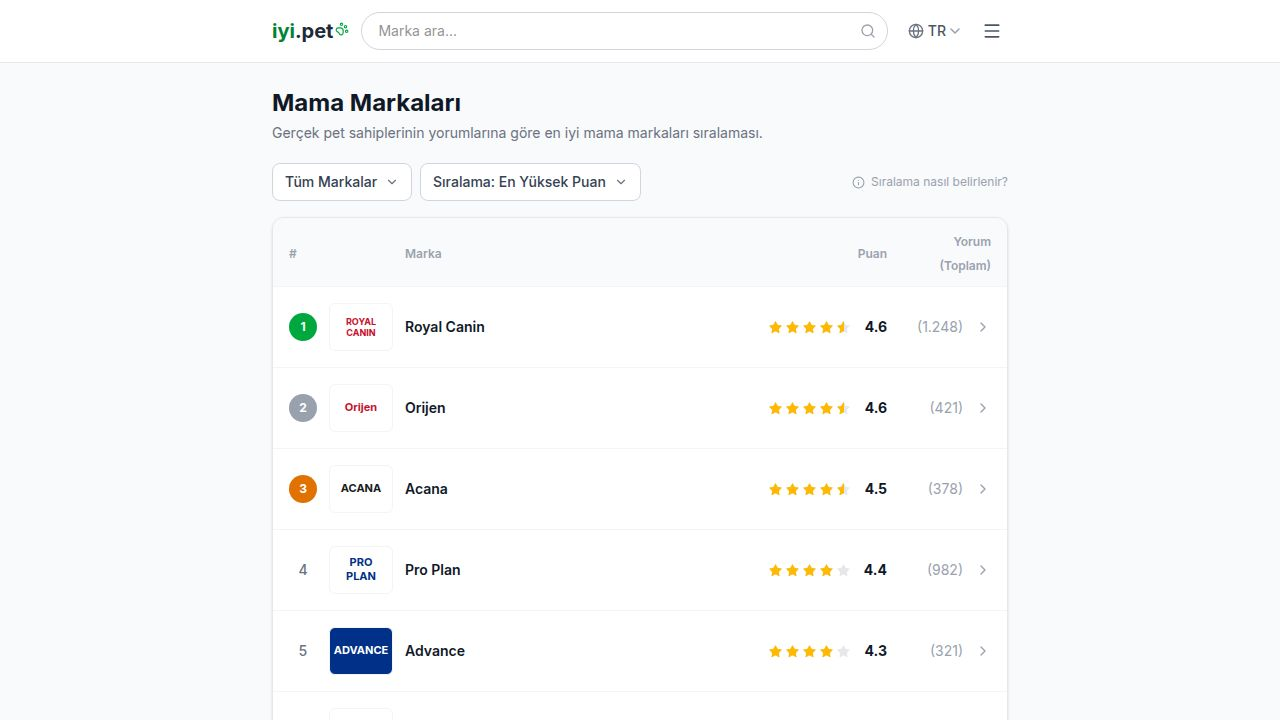
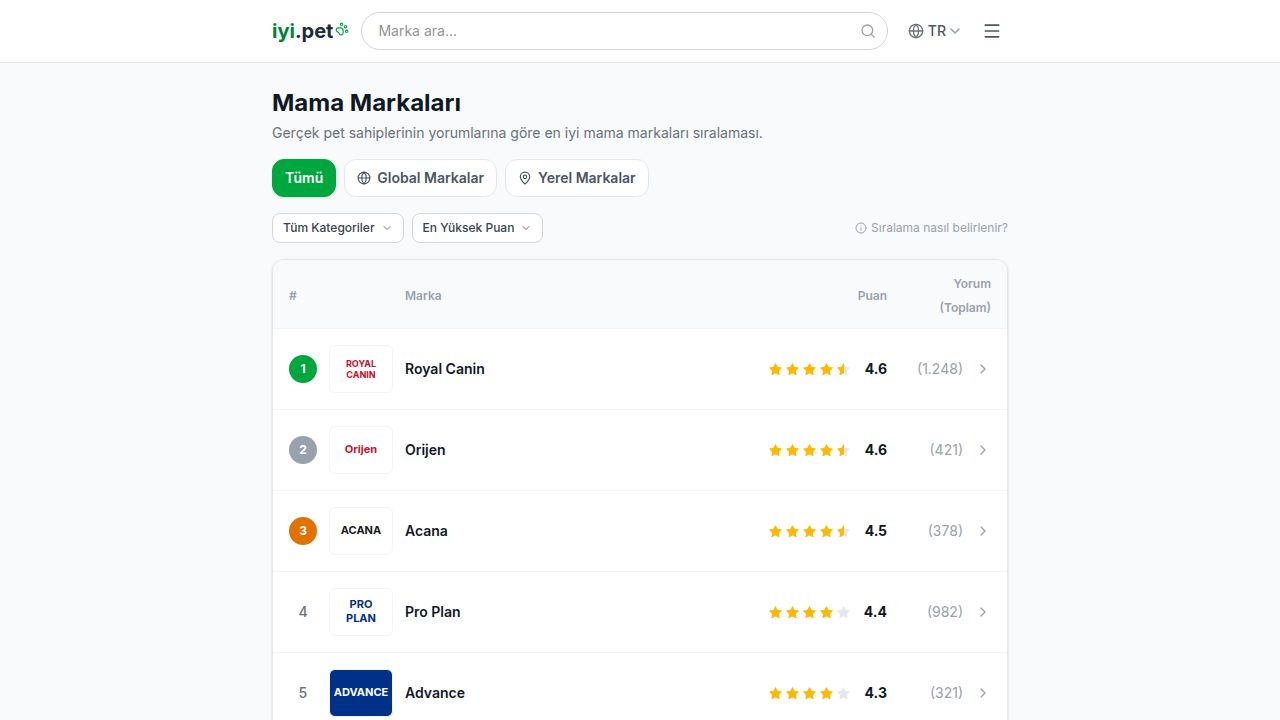
Add global and local brand filters and adjust filter appearance
Add origin field to Brand interface and implement origin filtering in HomePage. Adjust filter dropdowns to be smaller for mobile responsiveness.

Replit-Commit-Author: Agent
Replit-Commit-Session-Id: 1b405c30-fcac-4e8d-976c-ef8b626d699d
Replit-Commit-Checkpoint-Type: full_checkpoint
Replit-Commit-Event-Id: 4c6bf373-7aaa-46b7-b2ef-e38c454f45e2
Replit-Commit-Screenshot-Url: https://storage.googleapis.com/screenshot-production-us-central1/be2404f4-df1d-4d30-97e0-d8015203fd2e/1b405c30-fcac-4e8d-976c-ef8b626d699d/ztaw8hg
Replit-Helium-Checkpoint-Created: true

diff --git a/artifacts/mama-markalari/src/pages/HomePage.tsx b/artifacts/mama-markalari/src/pages/HomePage.tsx
@@ -1,6 +1,6 @@
 import { useState, useMemo } from "react";
 import { Link } from "wouter";
-import { ChevronDown, ChevronRight, Info } from "lucide-react";
+import { ChevronDown, ChevronRight, Info, Globe, MapPin } from "lucide-react";
 import { Header } from "@/components/Header";
 import { StarRating } from "@/components/StarRating";
 import { BrandLogo } from "@/components/BrandLogo";
@@ -51,11 +51,11 @@ function FilterDropdown({
     <div className="relative">
       <button
         onClick={() => setOpen(!open)}
-        className="flex items-center gap-2 px-3 py-2 text-sm border border-gray-300 rounded-lg bg-white hover:bg-gray-50 transition-colors font-medium text-gray-700"
+        className="flex items-center gap-1.5 px-2.5 py-1.5 text-xs border border-gray-300 rounded-lg bg-white hover:bg-gray-50 transition-colors font-medium text-gray-700 whitespace-nowrap"
         data-testid="button-filter"
       >
         <span>{current?.label}</span>
-        <ChevronDown size={14} className="text-gray-500" />
+        <ChevronDown size={12} className="text-gray-500 flex-shrink-0" />
       </button>
       {open && (
         <>
@@ -63,7 +63,7 @@ function FilterDropdown({
             className="fixed inset-0 z-10"
             onClick={() => setOpen(false)}
           />
-          <div className="absolute top-full mt-1 left-0 bg-white border border-gray-200 rounded-lg shadow-lg z-20 min-w-[200px]">
+          <div className="absolute top-full mt-1 left-0 bg-white border border-gray-200 rounded-lg shadow-lg z-20 min-w-[160px]">
             {options.map((opt) => (
               <button
                 key={opt.value}
@@ -71,7 +71,7 @@ function FilterDropdown({
                   onChange(opt.value);
                   setOpen(false);
                 }}
-                className={`w-full text-left px-4 py-2.5 text-sm hover:bg-gray-50 transition-colors first:rounded-t-lg last:rounded-b-lg ${
+                className={`w-full text-left px-3 py-2 text-xs hover:bg-gray-50 transition-colors first:rounded-t-lg last:rounded-b-lg ${
                   opt.value === value ? "text-green-700 font-semibold bg-green-50" : "text-gray-700"
                 }`}
                 data-testid={`option-filter-${opt.value}`}
@@ -120,13 +120,19 @@ function BrandRow({ brand, rank }: { brand: Brand; rank: number }) {
   );
 }
 
+type OriginTab = "all" | "global" | "local";
+
 export function HomePage() {
+  const [originTab, setOriginTab] = useState<OriginTab>("all");
   const [category, setCategory] = useState("all");
   const [sortBy, setSortBy] = useState("rating_desc");
   const [showAll, setShowAll] = useState(false);
 
   const filtered = useMemo(() => {
     let list = [...brands];
+    if (originTab !== "all") {
+      list = list.filter((b) => b.origin === originTab);
+    }
     if (category !== "all") {
       list = list.filter((b) => b.category === category);
     }
@@ -145,24 +151,53 @@ export function HomePage() {
       }
     });
     return list;
-  }, [category, sortBy]);
+  }, [originTab, category, sortBy]);
 
   const displayed = showAll ? filtered : filtered.slice(0, 10);
+
+  const originTabs: { value: OriginTab; label: string; icon: React.ReactNode }[] = [
+    { value: "all", label: "Tümü", icon: null },
+    { value: "global", label: "Global Markalar", icon: <Globe size={14} className="flex-shrink-0" /> },
+    { value: "local", label: "Yerel Markalar", icon: <MapPin size={14} className="flex-shrink-0" /> },
+  ];
 
   return (
     <div className="min-h-screen bg-gray-50">
       <Header />
 
       <main className="max-w-3xl mx-auto px-4 py-6">
-        <div className="mb-5">
+        <div className="mb-4">
           <h1 className="text-2xl font-bold text-gray-900 mb-1">Mama Markaları</h1>
           <p className="text-sm text-gray-500">
             Gerçek pet sahiplerinin yorumlarına göre en iyi mama markaları sıralaması.
           </p>
         </div>
 
-        <div className="flex items-center justify-between mb-4 gap-2 flex-wrap">
-          <div className="flex items-center gap-2 flex-wrap">
+        {/* Origin tabs */}
+        <div className="flex items-center gap-2 mb-4">
+          {originTabs.map((tab) => (
+            <button
+              key={tab.value}
+              onClick={() => {
+                setOriginTab(tab.value);
+                setShowAll(false);
+              }}
+              className={`flex items-center gap-1.5 px-3 py-2 rounded-xl text-sm font-semibold transition-all border ${
+                originTab === tab.value
+                  ? "bg-green-600 text-white border-green-600 shadow-sm"
+                  : "bg-white text-gray-600 border-gray-200 hover:border-gray-300 hover:bg-gray-50"
+              }`}
+              data-testid={`tab-origin-${tab.value}`}
+            >
+              {tab.icon}
+              <span>{tab.label}</span>
+            </button>
+          ))}
+        </div>
+
+        {/* Filter row */}
+        <div className="flex items-center justify-between mb-4 gap-2">
+          <div className="flex items-center gap-2">
             <FilterDropdown
               value={category}
               onChange={setCategory}
@@ -175,11 +210,11 @@ export function HomePage() {
             />
           </div>
           <button
-            className="flex items-center gap-1.5 text-xs text-gray-400 hover:text-gray-600 transition-colors"
+            className="flex items-center gap-1 text-xs text-gray-400 hover:text-gray-600 transition-colors flex-shrink-0"
             data-testid="button-ranking-info"
           >
-            <Info size={13} />
-            <span>Sıralama nasıl belirlenir?</span>
+            <Info size={12} />
+            <span className="hidden sm:inline">Sıralama nasıl belirlenir?</span>
           </button>
         </div>
 
@@ -200,9 +235,15 @@ export function HomePage() {
             </div>
           </div>
 
-          {displayed.map((brand, index) => (
-            <BrandRow key={brand.id} brand={brand} rank={index + 1} />
-          ))}
+          {displayed.length === 0 ? (
+            <div className="py-12 flex flex-col items-center gap-2 text-gray-400">
+              <span className="text-sm">Bu kategoride marka bulunamadı.</span>
+            </div>
+          ) : (
+            displayed.map((brand, index) => (
+              <BrandRow key={brand.id} brand={brand} rank={index + 1} />
+            ))
+          )}
         </div>
 
         {!showAll && filtered.length > 10 && (

diff --git a/artifacts/mama-markalari/src/data/brands.ts b/artifacts/mama-markalari/src/data/brands.ts
@@ -5,6 +5,7 @@ export interface Brand {
   rating: number;
   reviewCount: number;
   category: string;
+  origin: "global" | "local";
   logoText: string;
   logoColor: string;
   logoBg: string;
@@ -18,6 +19,7 @@ export const brands: Brand[] = [
     rating: 4.6,
     reviewCount: 1248,
     category: "premium",
+    origin: "global",
     logoText: "ROYAL CANIN",
     logoColor: "#c8102e",
     logoBg: "#fff",
@@ -29,6 +31,7 @@ export const brands: Brand[] = [
     rating: 4.6,
     reviewCount: 421,
     category: "premium",
+    origin: "global",
     logoText: "Orijen",
     logoColor: "#c8102e",
     logoBg: "#fff",
@@ -40,6 +43,7 @@ export const brands: Brand[] = [
     rating: 4.5,
     reviewCount: 378,
     category: "premium",
+    origin: "global",
     logoText: "ACANA",
     logoColor: "#1a1a1a",
     logoBg: "#fff",
@@ -51,6 +55,7 @@ export const brands: Brand[] = [
     rating: 4.4,
     reviewCount: 982,
     category: "premium",
+    origin: "global",
     logoText: "PRO PLAN",
     logoColor: "#003087",
     logoBg: "#fff",
@@ -62,6 +67,7 @@ export const brands: Brand[] = [
     rating: 4.2,
     reviewCount: 756,
     category: "veterinary",
+    origin: "global",
     logoText: "Hill's",
     logoColor: "#e31837",
     logoBg: "#fff",
@@ -73,6 +79,7 @@ export const brands: Brand[] = [
     rating: 4.1,
     reviewCount: 612,
     category: "premium",
+    origin: "global",
     logoText: "N&D",
     logoColor: "#8b6914",
     logoBg: "#fff",
@@ -84,6 +91,7 @@ export const brands: Brand[] = [
     rating: 4.0,
     reviewCount: 532,
     category: "premium",
+    origin: "global",
     logoText: "Brit care",
     logoColor: "#fff",
     logoBg: "#e91e8c",
@@ -95,6 +103,7 @@ export const brands: Brand[] = [
     rating: 4.3,
     reviewCount: 321,
     category: "premium",
+    origin: "global",
     logoText: "ADVANCE",
     logoColor: "#fff",
     logoBg: "#003087",
@@ -106,6 +115,7 @@ export const brands: Brand[] = [
     rating: 4.3,
     reviewCount: 291,
     category: "standard",
+    origin: "global",
     logoText: "ONE",
     logoColor: "#1a1a1a",
     logoBg: "#fff",
@@ -117,6 +127,7 @@ export const brands: Brand[] = [
     rating: 4.2,
     reviewCount: 256,
     category: "premium",
+    origin: "global",
     logoText: "monge",
     logoColor: "#c8102e",
     logoBg: "#fff",
@@ -128,6 +139,7 @@ export const brands: Brand[] = [
     rating: 3.9,
     reviewCount: 198,
     category: "standard",
+    origin: "global",
     logoText: "iams",
     logoColor: "#e31837",
     logoBg: "#fff",
@@ -139,6 +151,7 @@ export const brands: Brand[] = [
     rating: 3.7,
     reviewCount: 445,
     category: "standard",
+    origin: "global",
     logoText: "Whiskas",
     logoColor: "#6a0dad",
     logoBg: "#fff",
@@ -150,6 +163,7 @@ export const brands: Brand[] = [
     rating: 3.5,
     reviewCount: 312,
     category: "standard",
+    origin: "global",
     logoText: "felix",
     logoColor: "#ff6600",
     logoBg: "#fff",
@@ -161,6 +175,7 @@ export const brands: Brand[] = [
     rating: 3.6,
     reviewCount: 523,
     category: "standard",
+    origin: "global",
     logoText: "Pedigree",
     logoColor: "#003087",
     logoBg: "#fff",
@@ -172,22 +187,71 @@ export const brands: Brand[] = [
     rating: 3.4,
     reviewCount: 287,
     category: "standard",
+    origin: "global",
     logoText: "friskies",
     logoColor: "#e31837",
+    logoBg: "#fff",
+  },
+  {
+    id: 16,
+    name: "Provet",
+    slug: "provet",
+    rating: 4.1,
+    reviewCount: 334,
+    category: "veterinary",
+    origin: "local",
+    logoText: "PROVET",
+    logoColor: "#1a6e3c",
+    logoBg: "#fff",
+  },
+  {
+    id: 17,
+    name: "Puffy",
+    slug: "puffy",
+    rating: 3.8,
+    reviewCount: 218,
+    category: "standard",
+    origin: "local",
+    logoText: "Puffy",
+    logoColor: "#f57c00",
+    logoBg: "#fff",
+  },
+  {
+    id: 18,
+    name: "Gimcat",
+    slug: "gimcat",
+    rating: 3.9,
+    reviewCount: 176,
+    category: "premium",
+    origin: "local",
+    logoText: "GimCat",
+    logoColor: "#2e7d32",
+    logoBg: "#fff",
+  },
+  {
+    id: 19,
+    name: "Puffins",
+    slug: "puffins",
+    rating: 3.7,
+    reviewCount: 143,
+    category: "standard",
+    origin: "local",
+    logoText: "Puffins",
+    logoColor: "#1565c0",
     logoBg: "#fff",
   },
 ];
 
 export const categories = [
-  { value: "all", label: "Tüm Markalar" },
+  { value: "all", label: "Tüm Kategoriler" },
   { value: "premium", label: "Premium" },
   { value: "standard", label: "Standart" },
   { value: "veterinary", label: "Veteriner" },
 ];
 
 export const sortOptions = [
-  { value: "rating_desc", label: "Sıralama: En Yüksek Puan" },
-  { value: "rating_asc", label: "Sıralama: En Düşük Puan" },
-  { value: "reviews_desc", label: "Sıralama: En Çok Yorum" },
-  { value: "name_asc", label: "Sıralama: A-Z" },
+  { value: "rating_desc", label: "En Yüksek Puan" },
+  { value: "rating_asc", label: "En Düşük Puan" },
+  { value: "reviews_desc", label: "En Çok Yorum" },
+  { value: "name_asc", label: "A-Z" },
 ];
